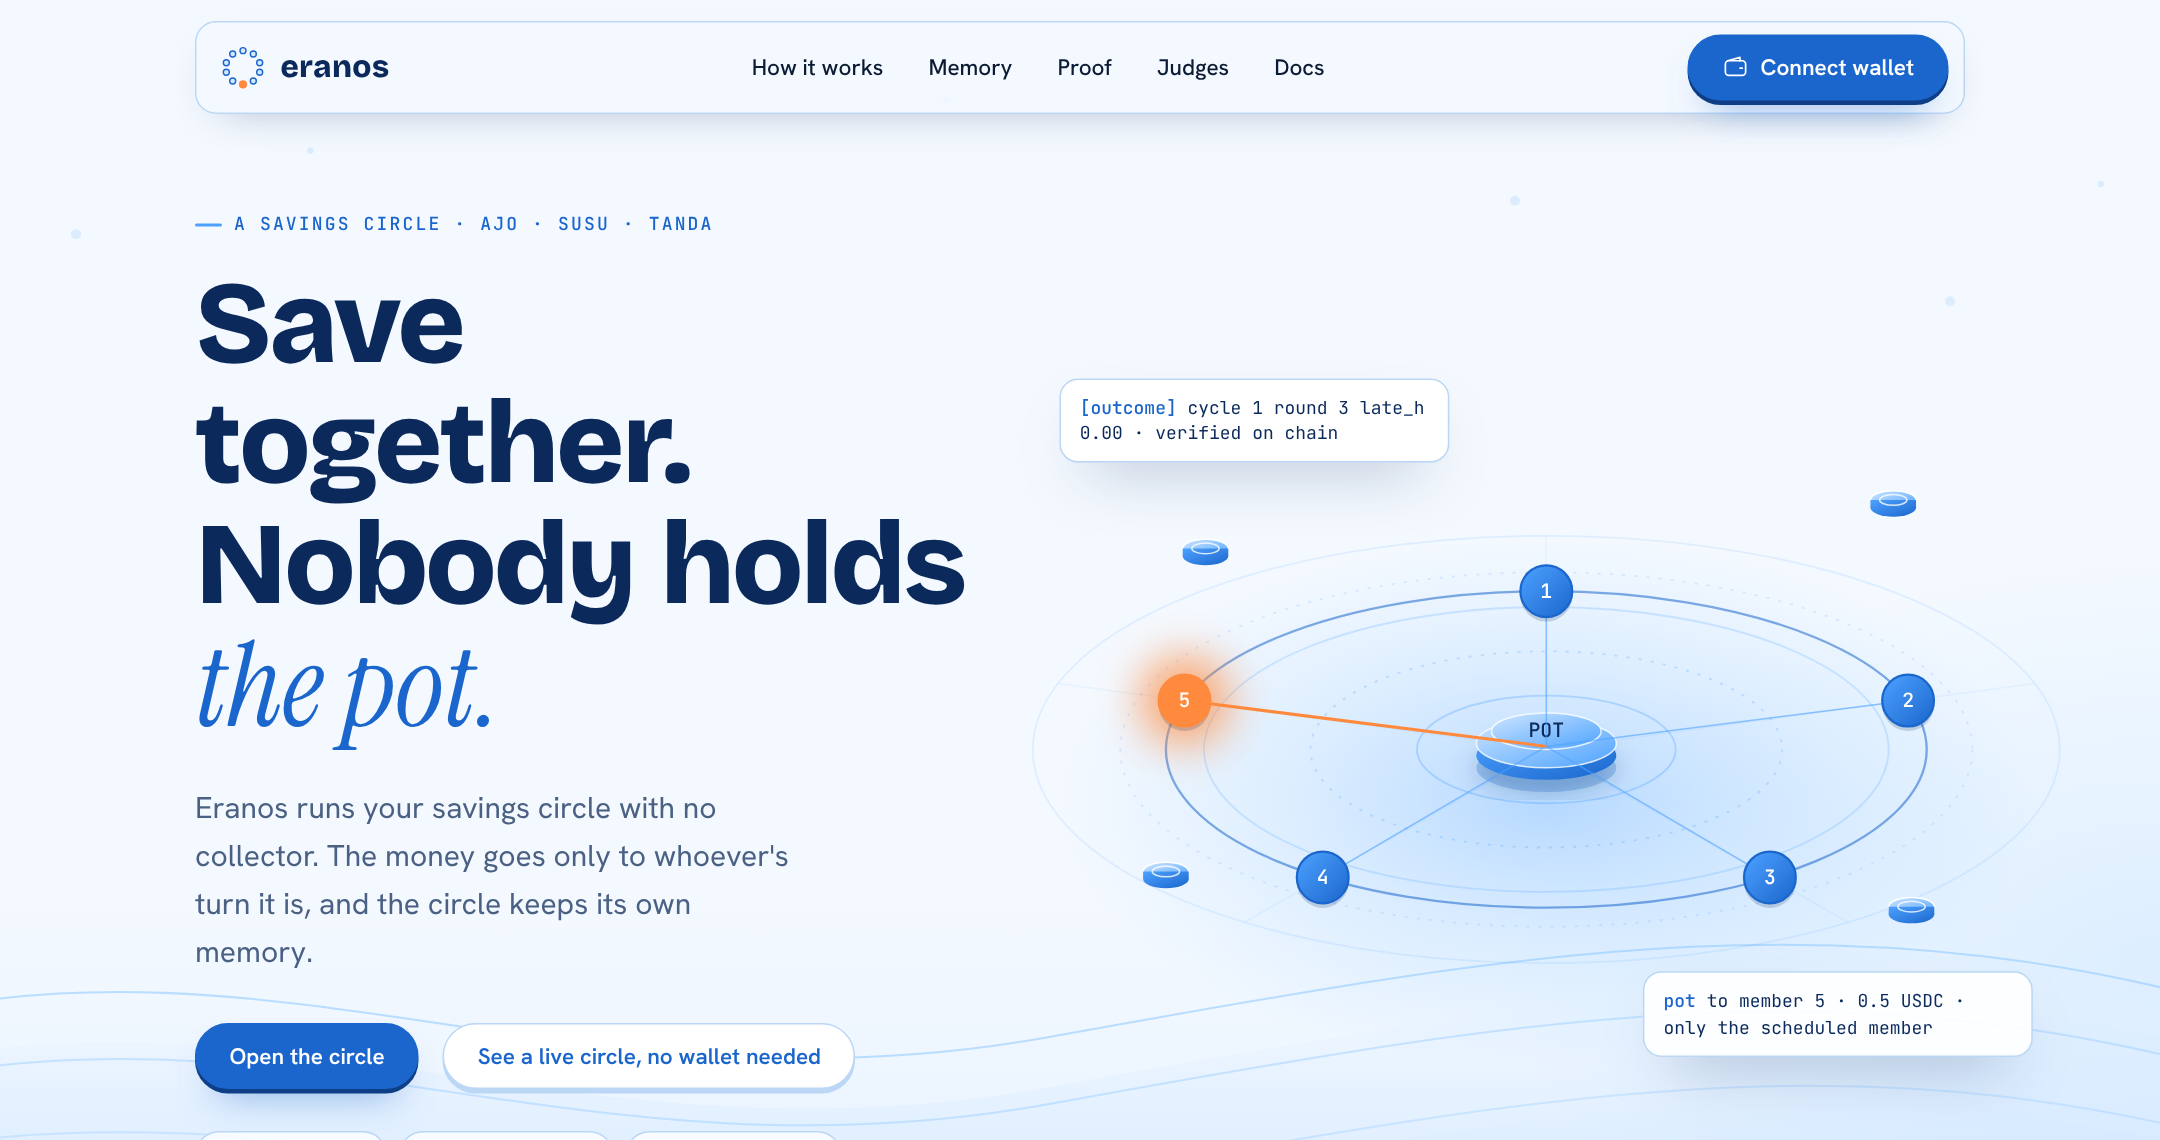
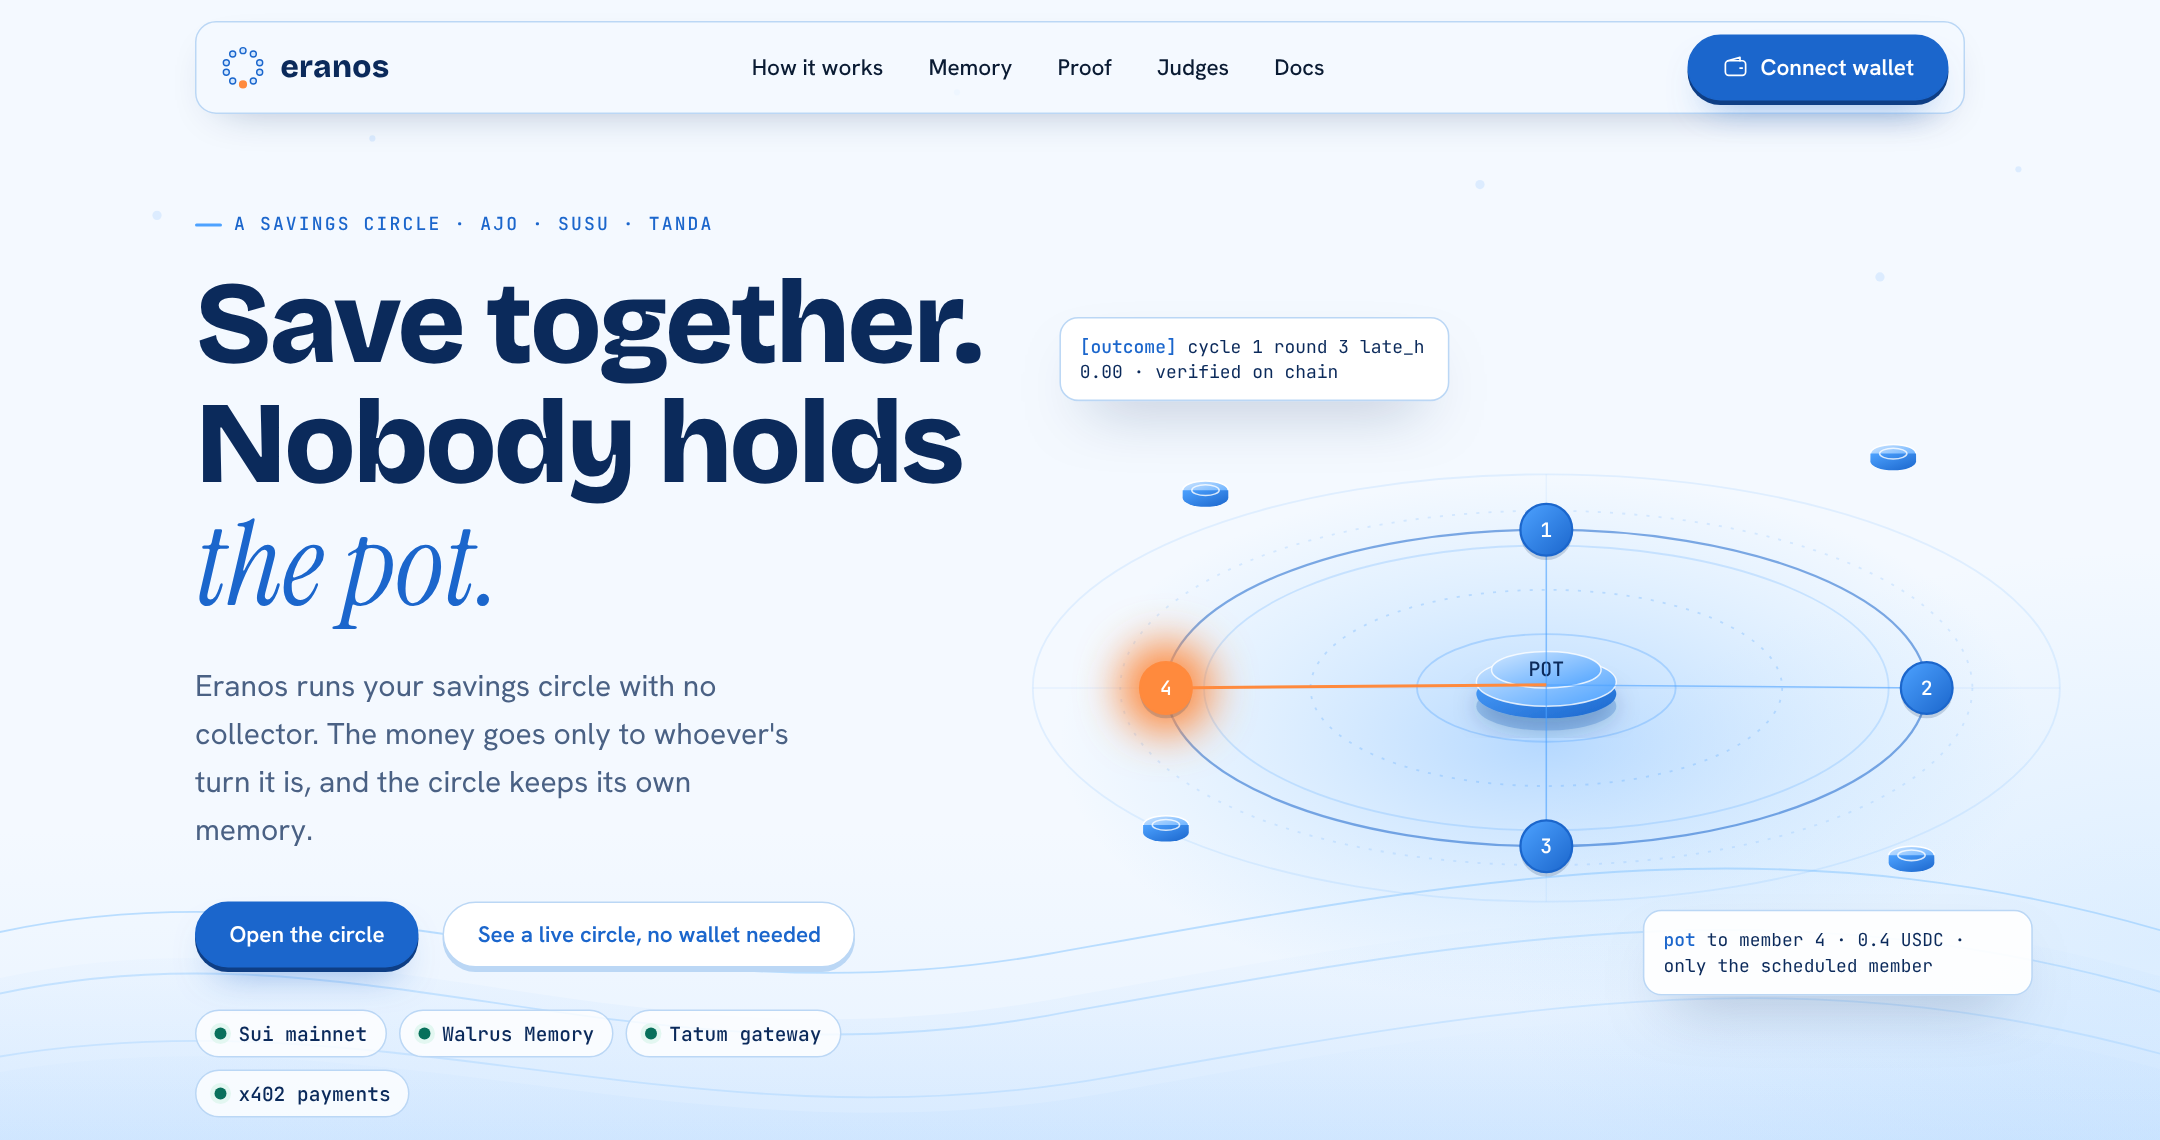
Screenshots with settled animations, membership diagram follows the real member count, general start-cycle script

diff --git a/components/art.tsx b/components/art.tsx
@@ -68,7 +68,8 @@ export function HeroScene({ n = 5, paid = [] as boolean[], turn = 0 }: { n?: num
 }
 
 /** The membership diagram: stewards own the account, members hold keys, the contract reads both. */
-export function MembershipDiagram() {
+export function MembershipDiagram({ n = 5 }: { n?: number }) {
+  const x0 = 214 - (n - 1) * 34;
   return (
     <svg viewBox="0 0 560 330" role="img" aria-label="Three stewards own the circle's memory account. Each member holds one delegate key. The contract checks both rolls." style={{ width: "100%", height: "auto" }} data-testid="membership-diagram">
       <defs><linearGradient id="md" x1="0" y1="0" x2="1" y2="1"><stop offset="0" stopColor="#8CC8FF" /><stop offset="1" stopColor="#1B66CC" /></linearGradient></defs>
@@ -78,7 +79,7 @@ export function MembershipDiagram() {
       <rect x="342" y="112" width="156" height="58" rx="14" fill="rgba(255,255,255,.1)" stroke="#8CC8FF" /><text x="420" y="137" textAnchor="middle" fill="#fff" fontFamily="var(--display)" fontWeight="800" fontSize="15">Circle contract</text><text x="420" y="156" textAnchor="middle" fill="#B6CFF0" fontFamily="var(--mono)" fontSize="10.5">eranos::circle on Sui</text>
       <path d="M218 141 H342" stroke="#FF8A3D" strokeWidth="2" /><path d="M334 135 l8 6 -8 6" stroke="#FF8A3D" strokeWidth="2" fill="none" />
       <text x="280" y="131" textAnchor="middle" fill="#FFB98A" fontFamily="var(--mono)" fontSize="10.5">is_delegate?</text>
-      {[0, 1, 2, 3, 4].map((i) => (<g key={i}><path d={`M${74 + i * 68} 262 L ${140 + (i - 2) * 14} 170`} stroke="#8CC8FF" strokeOpacity=".55" /><circle cx={74 + i * 68} cy="276" r="19" fill="#fff" stroke="#4DA2FF" strokeWidth="1.5" /><g stroke="#1B66CC" fill="none" strokeWidth="1.5" strokeLinecap="round"><circle cx={69 + i * 68} cy="272" r="4.5" /><path d={`M${72.5 + i * 68} 275.5 L ${82 + i * 68} 285 M${79 + i * 68} 282 l3 -3`} /></g></g>))}
+      {Array.from({ length: n }, (_, i) => i).map((i) => (<g key={i}><path d={`M${x0 + i * 68} 262 L ${140 + (i - (n - 1) / 2) * 14} 170`} stroke="#8CC8FF" strokeOpacity=".55" /><circle cx={x0 + i * 68} cy="276" r="19" fill="#fff" stroke="#4DA2FF" strokeWidth="1.5" /><g stroke="#1B66CC" fill="none" strokeWidth="1.5" strokeLinecap="round"><circle cx={x0 - 5 + i * 68} cy="272" r="4.5" /><path d={`M${x0 - 1.5 + i * 68} 275.5 L ${x0 + 8 + i * 68} 285 M${x0 + 5 + i * 68} 282 l3 -3`} /></g></g>))}
       <text x="214" y="318" textAnchor="middle" fill="#B6CFF0" fontFamily="var(--mono)" fontSize="11" letterSpacing="1.2">ONE KEY PER MEMBER, DERIVED FROM THEIR WALLET</text>
     </svg>
   );

diff --git a/scripts/refusals-onchain.ts b/scripts/refusals-onchain.ts
@@ -1,0 +1,17 @@
+// P2 and P5 as real failed transactions: an explicit gas budget skips the pre-execution estimate, so the contract itself refuses on chain.
+import { Ed25519Keypair } from "@mysten/sui/keypairs/ed25519";
+import { T, STEWARDS, keeper, execSteward, execSingle, evidence } from "./chain";
+import { buildJoinTx, buildPayoutTx } from "@/lib/sui/ptb";
+(async () => {
+  const PKG = process.env.ERANOS_PKG!, C = process.env.DEMO_CIRCLE_ID!, A = process.env.DEMO_MEMORY_ACCOUNT_ID!;
+  // P5: payout for a round that is not full (round 4 of the finished cycle is paid out, so use an out-of-range round: EWrongRound is not what we want; use a fresh cycle round when one is open)
+  const round = Number(process.argv[2] ?? 3);
+  const tx5 = buildPayoutTx({ eranosPkg: PKG, sender: keeper.toSuiAddress(), circleId: C, round }); tx5.setGasBudget(5_000_000);
+  const o5 = await execSingle(tx5, keeper, { skipSim: true });
+  console.log("P5 payout round", round + 1, "success:", o5.success, o5.error?.slice(0, 160)); evidence(`P5 on chain: payout for round ${round + 1} refused by the contract, failed transaction`, o5.digest, { success: o5.success, error: o5.error });
+  // P2: admit without add_delegate_key
+  const stranger = Ed25519Keypair.generate();
+  const tx2 = buildJoinTx({ eranosPkg: PKG, stewards: STEWARDS, circleId: C, memoryAccountId: A, member: stranger.toSuiAddress(), memberKey: stranger.getPublicKey().toRawBytes(), label: "p2", skipMemory: true }); tx2.setGasBudget(8_000_000);
+  const o2 = await execSteward(tx2, { skipSim: true });
+  console.log("P2 admit without memory key success:", o2.success, o2.error?.slice(0, 160)); evidence("P2 on chain: admit without a memory key refused by the contract (EMemoryNotGranted), failed transaction", o2.digest, { success: o2.success, error: o2.error });
+})().catch((e) => { console.error(String(e?.message ?? e).slice(0, 500)); process.exit(1); });

diff --git a/components/Landing.tsx b/components/Landing.tsx
@@ -95,7 +95,7 @@ export function Landing({ d }: { d: LandingData }) {
               <span className="pill">access counter {d.roll.accessCounter}</span>
             </div>
             <p className="mono muted" style={{ marginTop: 12 }}>Checked live through Tatum. Revocation is forward only: it does not take back what a member already read.{d.leave ? <> Leave transaction <a href={`https://suiscan.xyz/mainnet/tx/${d.leave}`}>{d.leave.slice(0, 10)}…</a></> : null}</p></Reveal>
-          <Reveal delay={0.1}><div className="card dark" style={{ padding: 22, background: "linear-gradient(160deg, var(--deep), var(--navy))" }}><MembershipDiagram /></div></Reveal>
+          <Reveal delay={0.1}><div className="card dark" style={{ padding: 22, background: "linear-gradient(160deg, var(--deep), var(--navy))" }}><MembershipDiagram n={d.members.length || 5} /></div></Reveal>
         </div>
         <Stagger className="cards" gap={0.08}>
           {[[<IconShield key="a" />, "Only confirmed facts decide", "A model's guess waits in quarantine. Only the member it is about can sign it into the circle's decisions."], [<IconKey key="b" />, "Keys, not accounts", "Your memory key is derived from one wallet signature. It moves no money and is never stored."], [<IconSteward key="c" />, "Two of three to change anything", "Admitting, removing and starting a cycle need two steward signatures over the same bytes."]].map(([ic, t, p], i) => (

diff --git a/scripts/start-cycle.ts b/scripts/start-cycle.ts
@@ -16,5 +16,5 @@ const BASE = process.argv[2] ?? "http://localhost:3111";
     const s = await fetch(`${BASE}/api/proposals/${p.id}/sign`, { method: "POST", headers: { "content-type": "application/json" }, body: JSON.stringify({ signature: sig }) });
     last = await s.json(); console.log(`steward ${i + 1} signed:`, JSON.stringify(last));
   }
-  if (last.executed?.ok) evidence("start cycle 2: planner proposal citing memory lines, signed by stewards 1 and 2 through the proposals API", last.executed.digest, { order: p.reasons.map((o: { member: string; round: number; reason: string; cited: string[] }) => ({ round: o.round + 1, member: o.member, reason: o.reason, cited: o.cited })) });
+  if (last.executed?.ok) evidence("start cycle: planner proposal citing memory lines, signed by stewards 1 and 2 through the proposals API", last.executed.digest, { order: p.reasons.map((o: { member: string; round: number; reason: string; cited: string[] }) => ({ round: o.round + 1, member: o.member, reason: o.reason, cited: o.cited })) });
 })().catch((e) => { console.error(String(e?.message ?? e).slice(0, 600)); process.exit(1); });
